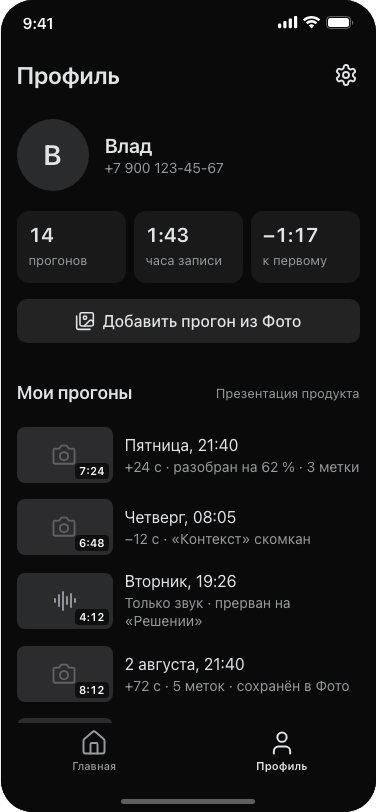
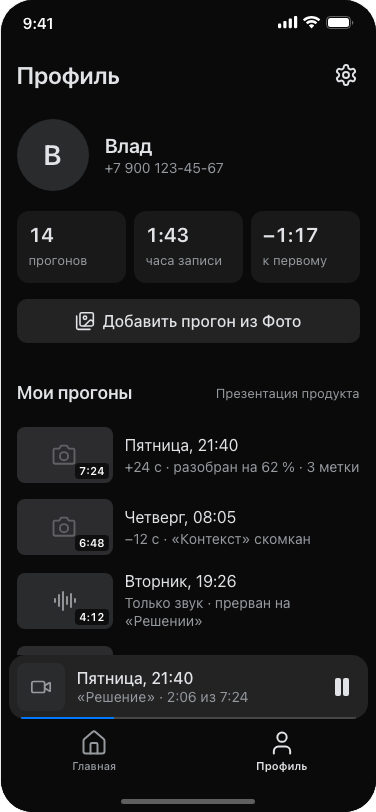
Второй дубль: плеер разбора сворачивается в мини-плеер на «Главной» и в «Профиле», «Слушать при погашенном экране» в настройках плеера, с локскрина — обратно в разбор

Changed region(s): [[0.0, 0.8005, 0.9947, 0.8929]]

diff --git a/platform/concepts/rehearsal/screens/today.html b/platform/concepts/rehearsal/screens/today.html
@@ -1,1 +1,1 @@
-<div class="screen ui vk-dark" id="scr-today"><div class="ui-scroll is-root"><header class="ui-top"><strong class="ui-wordmark"><img class="ui-wordmark-logo" src="assets/app-icon.png" alt=""/>Второй дубль</strong></header><section class="re-next"><p class="ui-foot">Четверг, 13 августа, 19:00 · через 3 дня</p><h1 class="ui-title">Презентация продукта</h1><p class="ui-sub">Технопарк, зал «Орбита» · регламент 7:00</p><div class="re-plan"><span class="re-plan-part is-a"><i></i></span><span class="re-plan-part is-b"><i></i></span><span class="re-plan-part is-c is-over"><i></i></span><span class="re-plan-part is-d"><i></i></span></div><div class="re-plan-legend"><span>Контекст 1:20</span><span>Проблема 1:40</span><span class="ui-link">Решение 2:40</span><span>Шаг 1:20</span></div><div class="ui-actions is-row re-next-actions"><button class="ui-btn is-primary" data-primary data-go="setup"><svg class="ui-fill-ico"><use href="#i-play"/></svg><span>Начать прогон</span></button><button class="ui-btn is-secondary" data-go="analysis"><span>Разбор</span></button></div></section><section class="ui-sec"><div class="ui-list"><button class="ui-row" data-ask="location|today|today"><span class="ui-lead is-round is-accent"><svg><use href="#i-route"/></svg></span><span class="ui-row-text"><strong data-hide-granted="location">Сколько ехать</strong><strong class="perm-hidden" data-show-granted="location">35 мин в пути · выйти в 18:20</strong><span>До Технопарка, Волгоградский пр., 42</span></span></button><button class="ui-row" data-ask="push|today|today"><span class="ui-lead is-round is-accent"><svg><use href="#i-bell"/></svg></span><span class="ui-row-text"><strong data-hide-granted="push">Напомнить о прогоне накануне</strong><strong class="perm-hidden" data-show-granted="push">Напомним в среду в 20:00</strong><span>Накануне выступления, 12 августа</span></span></button></div><div class="perm-hidden ui-denied" data-show-denied="location"><svg><use href="#i-map-pin"/></svg><strong>Нет доступа к геопозиции</strong><span>Разрешите доступ в Настройках</span><button class="ui-denied-btn" data-toast="Откроются Настройки iOS">Открыть Настройки</button></div></section><section class="ui-sec"><button class="re-ad" data-go="ads"><span class="re-ad-art"><svg><use href="#i-mic"/></svg></span><span class="ui-row-text"><strong>Петличка за 1 990 ₽</strong><span data-hide-granted="tracking">Реклама · без подбора</span><span class="perm-hidden" data-show-granted="tracking">Реклама · по интересам</span></span></button></section><section class="ui-sec"><div class="ui-sec-head"><h2>Последний прогон</h2><span class="ui-foot">14-й по теме</span></div><div class="ui-list"><button class="ui-row" data-go="analysis"><span class="ui-thumb is-wide ph on-dark"><span class="ui-duration">7:24</span></span><span class="ui-row-text"><strong>Пятница, 21:40 · +24 с к плану</strong><span>«Решение» +38 с · 3 метки</span></span></button></div><div class="ui-actions is-row re-last-actions"><button class="ui-btn is-secondary" data-activate="audio|session"><svg><use href="#i-headphones"/></svg><span>Слушать</span></button></div></section><section class="ui-sec"><div class="ui-sec-head"><h2>Другие выступления</h2></div><div class="ui-list"><div class="ui-row"><span class="re-date"><b>21</b>авг</span><span class="ui-row-text"><strong>Демо для команды</strong><span>12:00 · 6 блоков · прогон 28 июля</span></span></div><div class="ui-row"><span class="re-date"><b>3</b>сен</span><span class="ui-row-text"><strong>Защита диплома</strong><span>10:00 · 5 блоков · прогонов не было</span></span></div></div></section></div><nav class="ui-tabs tabbar" aria-label="Основная навигация"><div class="ui-tabrow"><button class="ui-tab tab is-on" data-go="today"><svg><use href="#i-house"/></svg><span>Главная</span></button><button class="ui-tab tab" data-go="history"><svg><use href="#i-user"/></svg><span>Профиль</span></button></div></nav><div class="home-ind"></div></div>
+<div class="screen ui vk-dark" id="scr-today"><div class="ui-scroll is-root"><header class="ui-top"><strong class="ui-wordmark"><img class="ui-wordmark-logo" src="assets/app-icon.png" alt=""/>Второй дубль</strong></header><section class="re-next"><p class="ui-foot">Четверг, 13 августа, 19:00 · через 3 дня</p><h1 class="ui-title">Презентация продукта</h1><p class="ui-sub">Технопарк, зал «Орбита» · регламент 7:00</p><div class="re-plan"><span class="re-plan-part is-a"><i></i></span><span class="re-plan-part is-b"><i></i></span><span class="re-plan-part is-c is-over"><i></i></span><span class="re-plan-part is-d"><i></i></span></div><div class="re-plan-legend"><span>Контекст 1:20</span><span>Проблема 1:40</span><span class="ui-link">Решение 2:40</span><span>Шаг 1:20</span></div><div class="ui-actions is-row re-next-actions"><button class="ui-btn is-primary" data-primary data-go="setup"><svg class="ui-fill-ico"><use href="#i-play"/></svg><span>Начать прогон</span></button><button class="ui-btn is-secondary" data-go="analysis"><span>Разбор</span></button></div></section><section class="ui-sec"><div class="ui-list"><button class="ui-row" data-ask="location|today|today"><span class="ui-lead is-round is-accent"><svg><use href="#i-route"/></svg></span><span class="ui-row-text"><strong data-hide-granted="location">Сколько ехать</strong><strong class="perm-hidden" data-show-granted="location">35 мин в пути · выйти в 18:20</strong><span>До Технопарка, Волгоградский пр., 42</span></span></button><button class="ui-row" data-ask="push|today|today"><span class="ui-lead is-round is-accent"><svg><use href="#i-bell"/></svg></span><span class="ui-row-text"><strong data-hide-granted="push">Напомнить о прогоне накануне</strong><strong class="perm-hidden" data-show-granted="push">Напомним в среду в 20:00</strong><span>Накануне выступления, 12 августа</span></span></button></div><div class="perm-hidden ui-denied" data-show-denied="location"><svg><use href="#i-map-pin"/></svg><strong>Нет доступа к геопозиции</strong><span>Разрешите доступ в Настройках</span><button class="ui-denied-btn" data-toast="Откроются Настройки iOS">Открыть Настройки</button></div></section><section class="ui-sec"><button class="re-ad" data-go="ads"><span class="re-ad-art"><svg><use href="#i-mic"/></svg></span><span class="ui-row-text"><strong>Петличка за 1 990 ₽</strong><span data-hide-granted="tracking">Реклама · без подбора</span><span class="perm-hidden" data-show-granted="tracking">Реклама · по интересам</span></span></button></section><section class="ui-sec"><div class="ui-sec-head"><h2>Последний прогон</h2><span class="ui-foot">14-й по теме</span></div><div class="ui-list"><button class="ui-row" data-go="analysis"><span class="ui-thumb is-wide ph on-dark"><span class="ui-duration">7:24</span></span><span class="ui-row-text"><strong>Пятница, 21:40 · +24 с к плану</strong><span>«Решение» +38 с · 3 метки</span></span></button></div><div class="ui-actions is-row re-last-actions"><button class="ui-btn is-secondary" data-activate="audio|session"><svg><use href="#i-headphones"/></svg><span>Слушать</span></button></div></section><section class="ui-sec"><div class="ui-sec-head"><h2>Другие выступления</h2></div><div class="ui-list"><div class="ui-row"><span class="re-date"><b>21</b>авг</span><span class="ui-row-text"><strong>Демо для команды</strong><span>12:00 · 6 блоков · прогон 28 июля</span></span></div><div class="ui-row"><span class="re-date"><b>3</b>сен</span><span class="ui-row-text"><strong>Защита диплома</strong><span>10:00 · 5 блоков · прогонов не было</span></span></div></div></section></div><nav class="ui-tabs tabbar" aria-label="Основная навигация"><div class="ui-mini"><button class="ui-mini-main" data-go="analysis" aria-label="Открыть плеер"><span class="ui-mini-face re-mini-face"><svg><use href="#i-video"/></svg></span><span class="ui-mini-text"><strong>Пятница, 21:40</strong><span>«Решение» · 2:06 из 7:24</span></span></button><button class="ui-icon-btn" data-toast="Пауза на 2:06" aria-label="Пауза"><svg class="ui-fill-ico"><use href="#i-pause"/></svg></button><span class="ui-mini-bar"><i class="re-w-28"></i></span></div><div class="ui-tabrow"><button class="ui-tab tab is-on" data-go="today"><svg><use href="#i-house"/></svg><span>Главная</span></button><button class="ui-tab tab" data-go="history"><svg><use href="#i-user"/></svg><span>Профиль</span></button></div></nav><div class="home-ind"></div></div>

diff --git a/platform/concepts/rehearsal/screens/analysis.html b/platform/concepts/rehearsal/screens/analysis.html
@@ -1,1 +1,1 @@
-<div class="screen ui vk-dark" id="scr-analysis"><header class="ui-nav"><button class="ui-icon-btn" data-back aria-label="Назад"><svg><use href="#i-chevron-left"/></svg></button><strong>Разбор</strong><span></span></header><div class="ui-scroll"><div class="ui-player ph on-dark"><div class="ui-player-top"><span></span><span class="ui-player-gap"></span><button class="ui-icon-btn is-glass" data-toast="Скорость 1× · 1,5× для разбора" aria-label="Качество и скорость"><span><svg><use href="#i-settings-2"/></svg></span></button></div><div class="ui-player-mid"><button class="ui-icon-btn" data-toast="Назад на 10 секунд" aria-label="Назад на 10 секунд"><svg><use href="#i-rotate-ccw"/></svg></button><button class="ui-play is-xl" data-toast="Воспроизведение с 2:06" aria-label="Смотреть"><svg><use href="#i-play"/></svg></button><button class="ui-icon-btn" data-toast="Вперёд на 10 секунд" aria-label="Вперёд на 10 секунд"><svg><use href="#i-rotate-cw"/></svg></button></div><div class="ui-player-bottom"><div class="ui-player-scrub"><span class="ui-player-ch is-w2 is-done" title="Контекст"></span><span class="ui-player-ch is-w2 is-done" title="Проблема"></span><span class="ui-player-ch is-w4 is-now" title="Решение"><i class="re-w-30"></i></span><span class="ui-player-ch is-w2" title="Шаг"></span></div><div class="ui-player-row"><span class="ui-player-time">2:06 / 7:24</span><span class="ui-player-chapter">Решение · +38 с</span><button class="ui-icon-btn" data-toast="Во весь экран — поверните телефон" aria-label="Во весь экран"><svg><use href="#i-maximize"/></svg></button></div></div></div><div class="re-timeline"><span class="re-seg is-a"></span><span class="re-seg is-b"></span><span class="re-seg is-c is-over"><i class="re-flag re-f1"></i><i class="re-flag re-f2"></i><i class="re-flag re-f3"></i></span><span class="re-seg is-d"></span></div><div class="re-analysis-head"><h1 class="ui-title ui-num">7:24 <span class="re-delta">+0:24</span></h1><p class="ui-sub">План 7:00 · за регламент вышли «Решение» и «Шаг»</p></div><section class="ui-sec"><div class="ui-sec-head"><h2>Что смотреть</h2></div><div class="ui-list"><button class="ui-row" data-go="moment"><span class="ui-thumb is-wide ph on-dark"><span class="ui-duration">3:18</span></span><span class="ui-row-text"><strong>«Решение» длиннее на 38 с</strong><span>02:06–05:24 · дольше всех</span></span></button><button class="ui-row" data-go="moment"><span class="ui-thumb is-wide ph on-dark"><span class="ui-duration">2:41</span></span><span class="ui-row-text"><strong>Три метки в одном блоке</strong><span>02:41 · 03:52 · 04:40 · две в первом примере</span></span></button><div class="ui-row"><span class="ui-thumb is-wide ph on-dark"><span class="ui-duration">2:00</span></span><span class="ui-row-text"><strong>«Шаг» длиннее плана на 40 с</strong><span>05:24–07:24 · дочитывал слайд</span></span></div></div></section><section class="ui-sec"><div class="ui-sec-head"><h2>По блокам</h2></div><div class="ui-list"><div class="ui-row"><span class="re-num">1</span><span class="ui-row-text"><strong>Контекст</strong><span>план 1:20</span></span><span class="ui-row-end is-value">1:12</span></div><div class="ui-row"><span class="re-num">2</span><span class="ui-row-text"><strong>Проблема</strong><span>план 1:40</span></span><span class="ui-row-end is-value">0:54</span></div><div class="ui-row"><span class="re-num is-over">3</span><span class="ui-row-text"><strong>Решение</strong><span>план 2:40</span></span><span class="ui-row-end is-value ui-link">3:18</span></div><div class="ui-row"><span class="re-num">4</span><span class="ui-row-text"><strong>Следующий шаг</strong><span>план 1:20</span></span><span class="ui-row-end is-value">2:00</span></div></div></section><div class="ui-actions re-bottom"><button class="ui-btn is-primary is-block" data-primary data-go="setup">Повторить прогон</button></div></div><div class="home-ind"></div></div>
+<div class="screen ui vk-dark" id="scr-analysis"><header class="ui-nav"><button class="ui-icon-btn" data-back aria-label="Назад"><svg><use href="#i-chevron-left"/></svg></button><strong>Разбор</strong><span></span></header><div class="ui-scroll"><div class="ui-player ph on-dark"><div class="ui-player-top"><button class="ui-icon-btn is-glass" data-go="today" aria-label="Свернуть"><span><svg><use href="#i-chevron-down"/></svg></span></button><span class="ui-player-gap"></span><button class="ui-icon-btn is-glass" data-menu="Скорость · 1×=Скорость 1×|Скорость · 1,5×=Скорость 1,5× для разбора|Слушать при погашенном экране>session" aria-label="Качество и скорость"><span><svg><use href="#i-settings-2"/></svg></span></button></div><div class="ui-player-mid"><button class="ui-icon-btn" data-toast="Назад на 10 секунд" aria-label="Назад на 10 секунд"><svg><use href="#i-rotate-ccw"/></svg></button><button class="ui-play is-xl" data-toast="Воспроизведение с 2:06" aria-label="Смотреть"><svg><use href="#i-play"/></svg></button><button class="ui-icon-btn" data-toast="Вперёд на 10 секунд" aria-label="Вперёд на 10 секунд"><svg><use href="#i-rotate-cw"/></svg></button></div><div class="ui-player-bottom"><div class="ui-player-scrub"><span class="ui-player-ch is-w2 is-done" title="Контекст"></span><span class="ui-player-ch is-w2 is-done" title="Проблема"></span><span class="ui-player-ch is-w4 is-now" title="Решение"><i class="re-w-30"></i></span><span class="ui-player-ch is-w2" title="Шаг"></span></div><div class="ui-player-row"><span class="ui-player-time">2:06 / 7:24</span><span class="ui-player-chapter">Решение · +38 с</span><button class="ui-icon-btn" data-toast="Во весь экран — поверните телефон" aria-label="Во весь экран"><svg><use href="#i-maximize"/></svg></button></div></div></div><div class="re-timeline"><span class="re-seg is-a"></span><span class="re-seg is-b"></span><span class="re-seg is-c is-over"><i class="re-flag re-f1"></i><i class="re-flag re-f2"></i><i class="re-flag re-f3"></i></span><span class="re-seg is-d"></span></div><div class="re-analysis-head"><h1 class="ui-title ui-num">7:24 <span class="re-delta">+0:24</span></h1><p class="ui-sub">План 7:00 · за регламент вышли «Решение» и «Шаг»</p></div><section class="ui-sec"><div class="ui-sec-head"><h2>Что смотреть</h2></div><div class="ui-list"><button class="ui-row" data-go="moment"><span class="ui-thumb is-wide ph on-dark"><span class="ui-duration">3:18</span></span><span class="ui-row-text"><strong>«Решение» длиннее на 38 с</strong><span>02:06–05:24 · дольше всех</span></span></button><button class="ui-row" data-go="moment"><span class="ui-thumb is-wide ph on-dark"><span class="ui-duration">2:41</span></span><span class="ui-row-text"><strong>Три метки в одном блоке</strong><span>02:41 · 03:52 · 04:40 · две в первом примере</span></span></button><div class="ui-row"><span class="ui-thumb is-wide ph on-dark"><span class="ui-duration">2:00</span></span><span class="ui-row-text"><strong>«Шаг» длиннее плана на 40 с</strong><span>05:24–07:24 · дочитывал слайд</span></span></div></div></section><section class="ui-sec"><div class="ui-sec-head"><h2>По блокам</h2></div><div class="ui-list"><div class="ui-row"><span class="re-num">1</span><span class="ui-row-text"><strong>Контекст</strong><span>план 1:20</span></span><span class="ui-row-end is-value">1:12</span></div><div class="ui-row"><span class="re-num">2</span><span class="ui-row-text"><strong>Проблема</strong><span>план 1:40</span></span><span class="ui-row-end is-value">0:54</span></div><div class="ui-row"><span class="re-num is-over">3</span><span class="ui-row-text"><strong>Решение</strong><span>план 2:40</span></span><span class="ui-row-end is-value ui-link">3:18</span></div><div class="ui-row"><span class="re-num">4</span><span class="ui-row-text"><strong>Следующий шаг</strong><span>план 1:20</span></span><span class="ui-row-end is-value">2:00</span></div></div></section><div class="ui-actions re-bottom"><button class="ui-btn is-primary is-block" data-primary data-go="setup">Повторить прогон</button></div></div><div class="home-ind"></div></div>

diff --git a/platform/concepts/rehearsal/screens/history.html b/platform/concepts/rehearsal/screens/history.html
@@ -1,1 +1,1 @@
-<div class="screen ui vk-dark" id="scr-history"><div class="ui-scroll is-root"><header class="ui-large"><h1>Профиль</h1><button class="ui-icon-btn" data-go="settings" aria-label="Настройки"><svg><use href="#i-settings"/></svg></button></header><div class="re-me"><span class="ui-avatar is-large" aria-hidden="true">В</span><div><h2 class="ui-title">Влад</h2><p class="ui-sub">+7 900 123-45-67</p></div></div><div class="ui-stats"><div class="ui-stat"><strong>14</strong><span>прогонов</span></div><div class="ui-stat"><strong>1:43</strong><span>часа записи</span></div><div class="ui-stat"><strong>−1:17</strong><span>к первому</span></div></div><div class="ui-actions re-import"><button class="ui-btn is-secondary is-block" data-ask="photos|import|history"><svg><use href="#i-images"/></svg><span>Добавить прогон из Фото</span></button></div><div class="perm-hidden ui-denied" data-show-denied="photos"><svg><use href="#i-images"/></svg><strong>Нет доступа к фото</strong><span>Разрешите доступ в Настройках</span><button class="ui-denied-btn" data-toast="Откроются Настройки iOS">Открыть Настройки</button></div><section class="ui-sec"><div class="ui-sec-head"><h2>Мои прогоны</h2><span class="ui-foot">Презентация продукта</span></div><div class="ui-list"><div class="ui-row perm-hidden" data-show-granted="photos"><span class="ui-thumb is-wide ph on-dark"><span class="ui-duration">7:36</span></span><span class="ui-row-text"><strong>Вчера, 19:12 · из «Фото»</strong><span>+36 с · разбирается по блокам</span></span><span class="dl is-busy"><svg><use href="#i-loader-circle"/></svg></span></div><button class="ui-row" data-go="analysis"><span class="ui-thumb is-wide ph on-dark"><span class="ui-duration">7:24</span></span><span class="ui-row-text"><strong>Пятница, 21:40</strong><span>+24 с · разобран на 62 % · 3 метки</span></span></button><button class="ui-row" data-go="analysis"><span class="ui-thumb is-wide ph on-dark"><span class="ui-duration">6:48</span></span><span class="ui-row-text"><strong>Четверг, 08:05</strong><span>−12 с · «Контекст» скомкан</span></span></button><div class="ui-row"><span class="ui-thumb is-wide re-audio"><svg><use href="#i-audio-lines"/></svg><span class="ui-duration">4:12</span></span><span class="ui-row-text"><strong>Вторник, 19:26</strong><span>Только звук · прерван на «Решении»</span></span></div><button class="ui-row" data-go="analysis"><span class="ui-thumb is-wide ph on-dark"><span class="ui-duration">8:12</span></span><span class="ui-row-text"><strong>2 августа, 21:40</strong><span>+72 с · 5 меток · сохранён в Фото</span></span></button><button class="ui-row" data-go="analysis"><span class="ui-thumb is-wide ph on-dark"><span class="ui-duration">7:58</span></span><span class="ui-row-text"><strong>30 июля, 22:03</strong><span>Из Фото · снимал Артём</span></span></button><button class="ui-row" data-go="analysis"><span class="ui-thumb is-wide ph on-dark"><span class="ui-duration">8:41</span></span><span class="ui-row-text"><strong>21 июля, 18:47</strong><span>Первый прогон · 3 блока</span></span></button></div></section></div><nav class="ui-tabs tabbar" aria-label="Основная навигация"><div class="ui-tabrow"><button class="ui-tab tab" data-go="today"><svg><use href="#i-house"/></svg><span>Главная</span></button><button class="ui-tab tab is-on" data-go="history"><svg><use href="#i-user"/></svg><span>Профиль</span></button></div></nav><div class="home-ind"></div></div>
+<div class="screen ui vk-dark" id="scr-history"><div class="ui-scroll is-root"><header class="ui-large"><h1>Профиль</h1><button class="ui-icon-btn" data-go="settings" aria-label="Настройки"><svg><use href="#i-settings"/></svg></button></header><div class="re-me"><span class="ui-avatar is-large" aria-hidden="true">В</span><div><h2 class="ui-title">Влад</h2><p class="ui-sub">+7 900 123-45-67</p></div></div><div class="ui-stats"><div class="ui-stat"><strong>14</strong><span>прогонов</span></div><div class="ui-stat"><strong>1:43</strong><span>часа записи</span></div><div class="ui-stat"><strong>−1:17</strong><span>к первому</span></div></div><div class="ui-actions re-import"><button class="ui-btn is-secondary is-block" data-ask="photos|import|history"><svg><use href="#i-images"/></svg><span>Добавить прогон из Фото</span></button></div><div class="perm-hidden ui-denied" data-show-denied="photos"><svg><use href="#i-images"/></svg><strong>Нет доступа к фото</strong><span>Разрешите доступ в Настройках</span><button class="ui-denied-btn" data-toast="Откроются Настройки iOS">Открыть Настройки</button></div><section class="ui-sec"><div class="ui-sec-head"><h2>Мои прогоны</h2><span class="ui-foot">Презентация продукта</span></div><div class="ui-list"><div class="ui-row perm-hidden" data-show-granted="photos"><span class="ui-thumb is-wide ph on-dark"><span class="ui-duration">7:36</span></span><span class="ui-row-text"><strong>Вчера, 19:12 · из «Фото»</strong><span>+36 с · разбирается по блокам</span></span><span class="dl is-busy"><svg><use href="#i-loader-circle"/></svg></span></div><button class="ui-row" data-go="analysis"><span class="ui-thumb is-wide ph on-dark"><span class="ui-duration">7:24</span></span><span class="ui-row-text"><strong>Пятница, 21:40</strong><span>+24 с · разобран на 62 % · 3 метки</span></span></button><button class="ui-row" data-go="analysis"><span class="ui-thumb is-wide ph on-dark"><span class="ui-duration">6:48</span></span><span class="ui-row-text"><strong>Четверг, 08:05</strong><span>−12 с · «Контекст» скомкан</span></span></button><div class="ui-row"><span class="ui-thumb is-wide re-audio"><svg><use href="#i-audio-lines"/></svg><span class="ui-duration">4:12</span></span><span class="ui-row-text"><strong>Вторник, 19:26</strong><span>Только звук · прерван на «Решении»</span></span></div><button class="ui-row" data-go="analysis"><span class="ui-thumb is-wide ph on-dark"><span class="ui-duration">8:12</span></span><span class="ui-row-text"><strong>2 августа, 21:40</strong><span>+72 с · 5 меток · сохранён в Фото</span></span></button><button class="ui-row" data-go="analysis"><span class="ui-thumb is-wide ph on-dark"><span class="ui-duration">7:58</span></span><span class="ui-row-text"><strong>30 июля, 22:03</strong><span>Из Фото · снимал Артём</span></span></button><button class="ui-row" data-go="analysis"><span class="ui-thumb is-wide ph on-dark"><span class="ui-duration">8:41</span></span><span class="ui-row-text"><strong>21 июля, 18:47</strong><span>Первый прогон · 3 блока</span></span></button></div></section></div><nav class="ui-tabs tabbar" aria-label="Основная навигация"><div class="ui-mini"><button class="ui-mini-main" data-go="analysis" aria-label="Открыть плеер"><span class="ui-mini-face re-mini-face"><svg><use href="#i-video"/></svg></span><span class="ui-mini-text"><strong>Пятница, 21:40</strong><span>«Решение» · 2:06 из 7:24</span></span></button><button class="ui-icon-btn" data-toast="Пауза на 2:06" aria-label="Пауза"><svg class="ui-fill-ico"><use href="#i-pause"/></svg></button><span class="ui-mini-bar"><i class="re-w-28"></i></span></div><div class="ui-tabrow"><button class="ui-tab tab" data-go="today"><svg><use href="#i-house"/></svg><span>Главная</span></button><button class="ui-tab tab is-on" data-go="history"><svg><use href="#i-user"/></svg><span>Профиль</span></button></div></nav><div class="home-ind"></div></div>

diff --git a/platform/concepts/rehearsal/screens/session.html b/platform/concepts/rehearsal/screens/session.html
@@ -1,1 +1,1 @@
-<div class="screen ui vk-dark re-lock" id="scr-session"><div class="re-lock-shade"></div><div class="re-lock-time">9:41<small>понедельник, 10 августа</small></div><section class="re-now"><div class="re-now-top"><span class="ui-thumb re-audio"><svg><use href="#i-audio-lines"/></svg></span><div class="ui-row-text"><strong>Прогон 7 августа · «Решение»</strong><span>Презентация продукта · Второй дубль</span></div></div><div class="ui-progress is-white"><i class="re-w-28"></i></div><div class="ui-times"><span>2:06</span><span>−5:18</span></div><div class="re-now-controls"><button class="ui-icon-btn" data-toast="Назад на 15 секунд" aria-label="Назад на 15 секунд"><svg><use href="#i-rotate-ccw"/></svg></button><button class="ui-icon-btn re-now-pause" data-toast="Пауза на 2:06" aria-label="Пауза"><svg class="ui-fill-ico"><use href="#i-pause"/></svg></button><button class="ui-icon-btn" data-toast="Вперёд на 15 секунд" aria-label="Вперёд на 15 секунд"><svg><use href="#i-rotate-cw"/></svg></button></div></section><button class="re-open-app" data-back>Открыть «Второй дубль»</button><div class="home-ind"></div></div>
+<div class="screen ui vk-dark re-lock" id="scr-session"><div class="re-lock-shade"></div><div class="re-lock-time">9:41<small>понедельник, 10 августа</small></div><section class="re-now"><div class="re-now-top"><span class="ui-thumb re-audio"><svg><use href="#i-audio-lines"/></svg></span><div class="ui-row-text"><strong>Прогон 7 августа · «Решение»</strong><span>Презентация продукта · Второй дубль</span></div></div><div class="ui-progress is-white"><i class="re-w-28"></i></div><div class="ui-times"><span>2:06</span><span>−5:18</span></div><div class="re-now-controls"><button class="ui-icon-btn" data-toast="Назад на 15 секунд" aria-label="Назад на 15 секунд"><svg><use href="#i-rotate-ccw"/></svg></button><button class="ui-icon-btn re-now-pause" data-toast="Пауза на 2:06" aria-label="Пауза"><svg class="ui-fill-ico"><use href="#i-pause"/></svg></button><button class="ui-icon-btn" data-toast="Вперёд на 15 секунд" aria-label="Вперёд на 15 секунд"><svg><use href="#i-rotate-cw"/></svg></button></div></section><button class="re-open-app" data-go="analysis">Открыть «Второй дубль»</button><div class="home-ind"></div></div>

diff --git a/platform/concepts/rehearsal/styles.css b/platform/concepts/rehearsal/styles.css
@@ -176,3 +176,7 @@
 
 /* Главное действие настройки прижато к низу */
 .re-dock { flex:none; padding:8px 16px calc(var(--safe-bottom) + 8px); border-top:1px solid var(--ui-line); background:var(--ui-bg); }
+
+/* Свёрнутый плеер разбора над таб-баром: прогон без кадра — значок видео */
+.re-mini-face { display:grid; place-items:center; color:var(--ui-text-2); }
+.re-mini-face svg { width:22px; height:22px; }

diff --git a/platform/concepts/rehearsal/docs/02-architecture.md b/platform/concepts/rehearsal/docs/02-architecture.md
@@ -110,7 +110,7 @@ SDK входа — почта и пароль, рекламный SDK — пок
         │   │               └─ Повтор блока (retake) — fullscreen · открывается: «Повторить только блок», «Ещё дубль»
         │   │                   └─ Дубль блока (take) — push · открывается: «Готово»
         │   └─ Таймер на телевизоре (cast) — system · открывается: «Таймер на телевизоре» (localnetwork)
-        ├─ Экран блокировки (session) — system · открывается: «Слушать» (audio)
+        ├─ Экран блокировки (session) — system · открывается: «Слушать» (audio), «Слушать при погашенном экране»
         └─ Реклама (ads) — push · открывается: «Петличка за 1 990 ₽» · tracking
 ```
 <!-- @end -->
@@ -159,6 +159,8 @@ SDK входа — почта и пароль, рекламный SDK — пок
 | `paused` | «Продолжить прогон» | `recording` | — | переход |
 | `paused` | «Завершить и разобрать» | `analysis` | — | переход |
 | `analysis` | «Назад» | `recording` | — | возврат по IA |
+| `analysis` | «Свернуть» | `today` | — | переход |
+| `analysis` | «Слушать при погашенном экране» | `session` | — | переход |
 | `analysis` | «3:18», «2:41» | `moment` | — | переход |
 | `analysis` | «Повторить прогон» | `setup` | — | переход |
 | `moment` | «Назад» | `analysis` | — | возврат по IA |
@@ -169,7 +171,7 @@ SDK входа — почта и пароль, рекламный SDK — пок
 | `take` | «Готово» | `moment` | — | переход |
 | `take` | «Ещё дубль» | `retake` | — | переход |
 | `cast` | — | — | — | дальше переходов нет |
-| `session` | — | — | — | дальше переходов нет |
+| `session` | «Открыть «Второй дубль»» | `analysis` | — | переход |
 | `import` | «Добавить» | `history` | — | подтверждение |
 | `settings` | «Назад» | `history` | — | возврат по IA |
 | `settings` | «Профиль и аккаунт» | `account` | — | переход |
@@ -215,6 +217,8 @@ SDK входа — почта и пароль, рекламный SDK — пок
 | `today` | Петличка за 1 990 ₽ | элемент экрана | открывает экран | Реклама (ads) | — | — |
 | `today` | 7:24 | элемент экрана | открывает экран | Разбор (analysis) | — | — |
 | `today` | Слушать | элемент экрана | включает entitlement audio, системного alert нет | Экран блокировки (session) | — | `UIBackgroundModes: audio` |
+| `today` | Открыть плеер | вкладка | переключает вкладку таб-бара | Разбор (analysis) | — | — |
+| `today` | Пауза | вкладка | показывает подтверждение «Пауза на 2:06» | остаётся на экране | — | — |
 | `today` | Главная | вкладка | переключает вкладку таб-бара | Главная (today) | — | — |
 | `today` | Профиль | вкладка | переключает вкладку таб-бара | Профиль (history) | — | — |
 | `history` | Настройки | элемент экрана | открывает экран | Настройки (settings) | — | — |
@@ -225,6 +229,8 @@ SDK входа — почта и пароль, рекламный SDK — пок
 | `history` | 8:12 | элемент экрана | открывает экран | Разбор (analysis) | — | — |
 | `history` | 7:58 | элемент экрана | открывает экран | Разбор (analysis) | — | — |
 | `history` | 8:41 | элемент экрана | открывает экран | Разбор (analysis) | — | — |
+| `history` | Открыть плеер | вкладка | переключает вкладку таб-бара | Разбор (analysis) | — | — |
+| `history` | Пауза | вкладка | показывает подтверждение «Пауза на 2:06» | остаётся на экране | — | — |
 | `history` | Главная | вкладка | переключает вкладку таб-бара | Главная (today) | — | — |
 | `history` | Профиль | вкладка | переключает вкладку таб-бара | Профиль (history) | — | — |
 | `setup` | Назад | кнопка «назад» | возвращает к родительскому экрану | Главная (today) | — | — |
@@ -242,7 +248,8 @@ SDK входа — почта и пароль, рекламный SDK — пок
 | `paused` | Продолжить прогон | элемент экрана | открывает экран | Идёт прогон (recording) | — | — |
 | `paused` | Завершить и разобрать | элемент экрана | открывает экран | Разбор (analysis) | — | — |
 | `analysis` | Назад | кнопка «назад» | возвращает к родительскому экрану | Идёт прогон (recording) | — | — |
-| `analysis` | Качество и скорость | элемент экрана | показывает подтверждение «Скорость 1× · 1,5× для разбора» | остаётся на экране | — | — |
+| `analysis` | Свернуть | элемент экрана | открывает экран | Главная (today) | — | — |
+| `analysis` | Качество и скорость | элемент экрана | открывает лист действий: Скорость · 1×=Скорость 1× · Скорость · 1,5×=Скорость 1,5× для разбора · Слушать при погашенном экране | Экран блокировки (session) | — | — |
 | `analysis` | Назад на 10 секунд | элемент экрана | показывает подтверждение «Назад на 10 секунд» | остаётся на экране | — | — |
 | `analysis` | Смотреть | элемент экрана | показывает подтверждение «Воспроизведение с 2:06» | остаётся на экране | — | — |
 | `analysis` | Вперёд на 10 секунд | элемент экрана | показывает подтверждение «Вперёд на 10 секунд» | остаётся на экране | — | — |
@@ -268,6 +275,7 @@ SDK входа — почта и пароль, рекламный SDK — пок
 | `session` | Назад на 15 секунд | элемент экрана | показывает подтверждение «Назад на 15 секунд» | остаётся на экране | — | — |
 | `session` | Пауза | элемент экрана | показывает подтверждение «Пауза на 2:06» | остаётся на экране | — | — |
 | `session` | Вперёд на 15 секунд | элемент экрана | показывает подтверждение «Вперёд на 15 секунд» | остаётся на экране | — | — |
+| `session` | Открыть «Второй дубль» | элемент экрана | открывает экран | Разбор (analysis) | — | — |
 | `import` | Добавить | элемент экрана | показывает подтверждение «Прогон 7:36 добавлен» | Профиль (history) | — | — |
 | `import` | 7:36 | элемент экрана | показывает подтверждение «Выбран прогон 7:36» | остаётся на экране | — | — |
 | `import` | 6:51 | элемент экрана | показывает подтверждение «Выбран прогон 6:51» | остаётся на экране | — | — |
